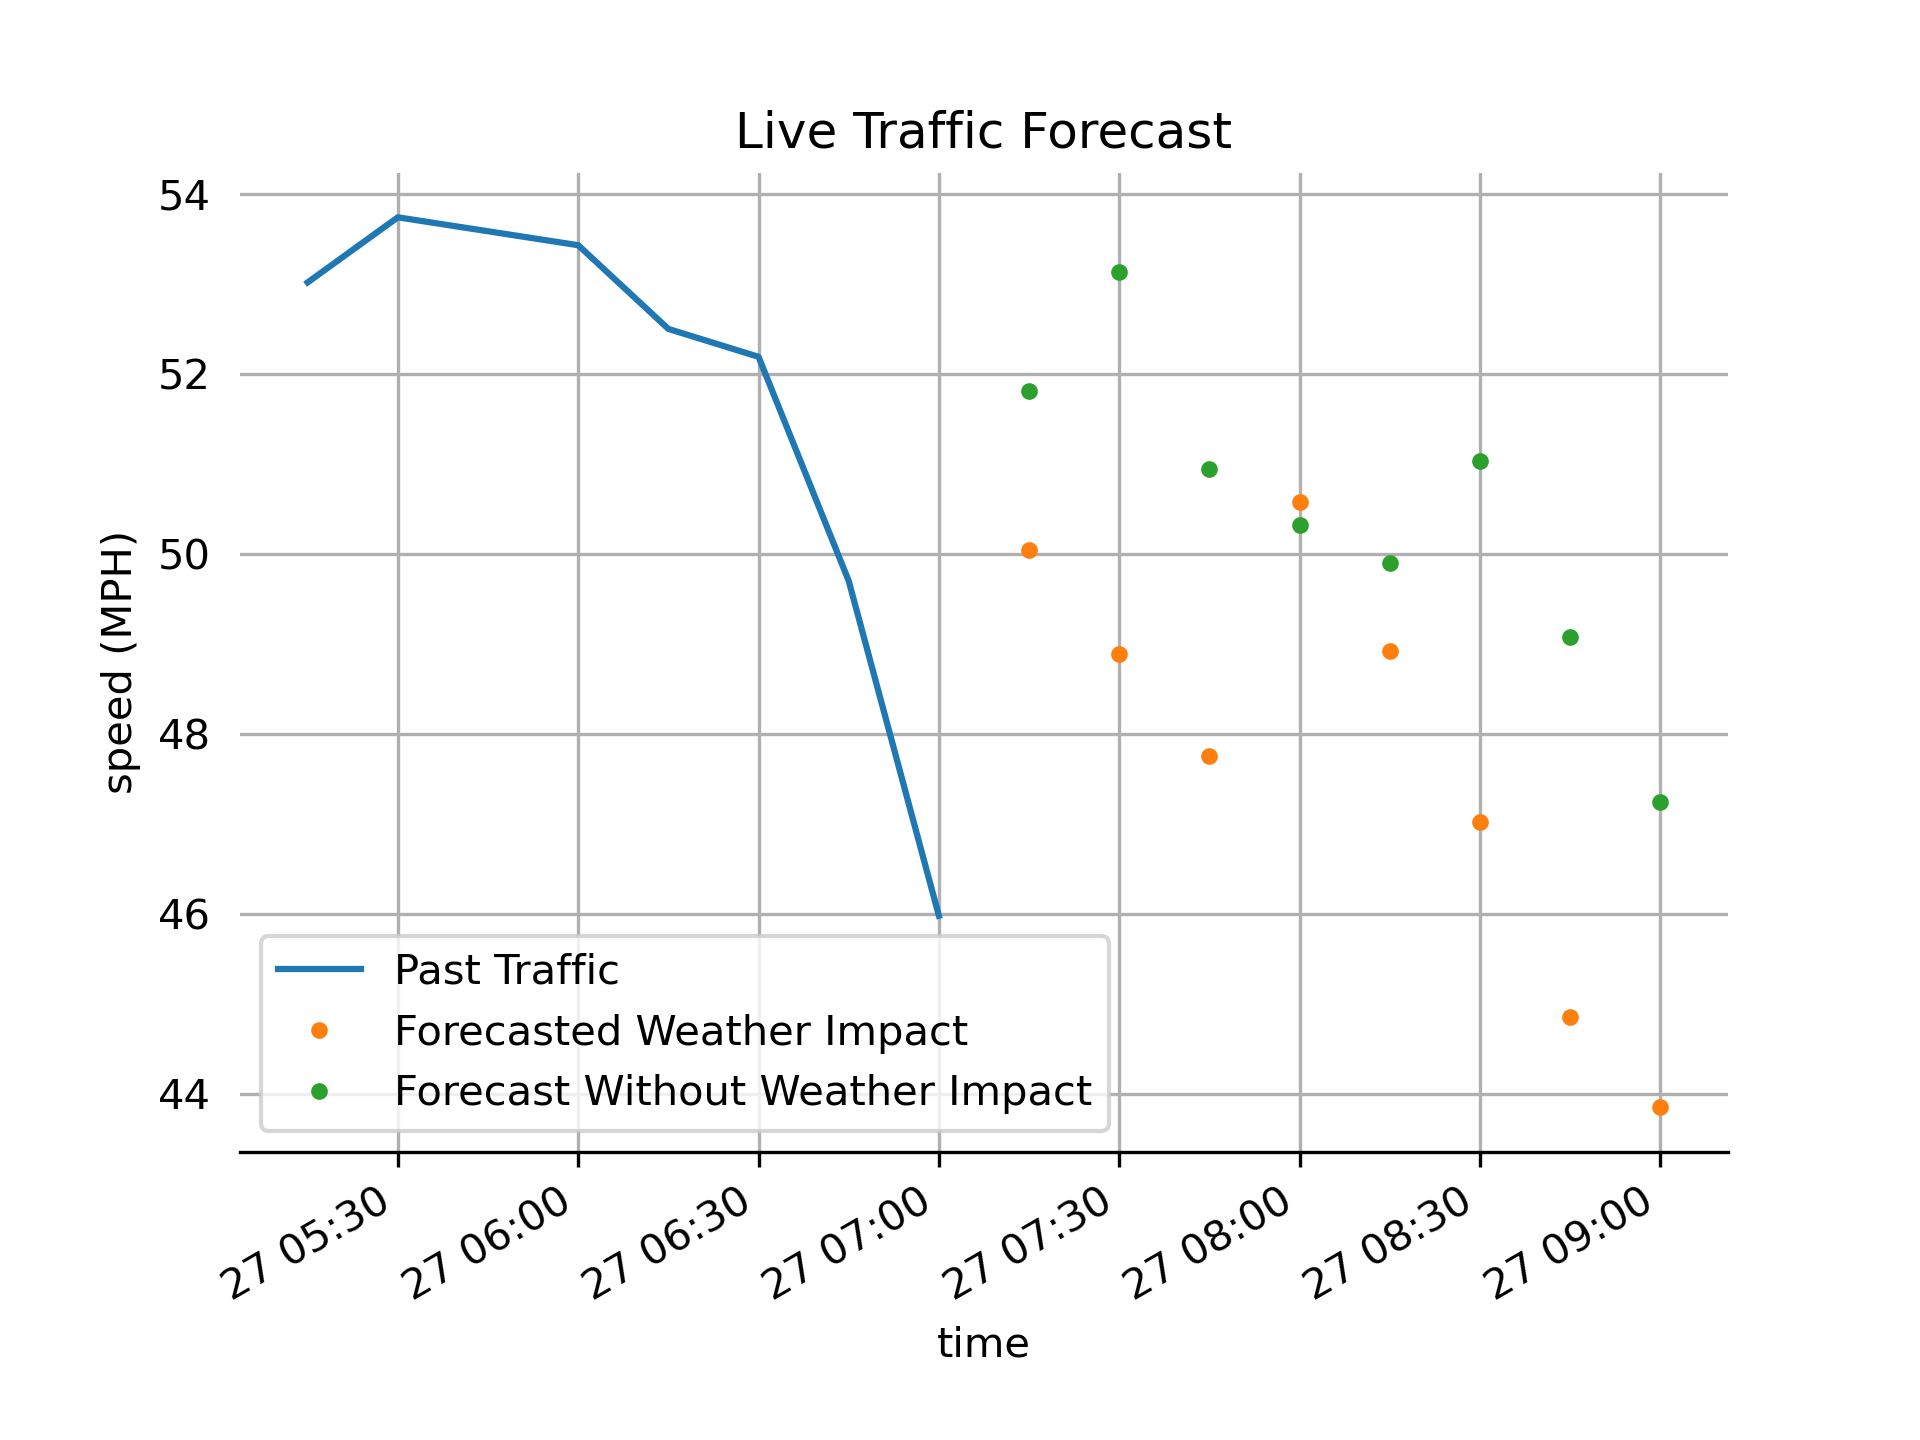
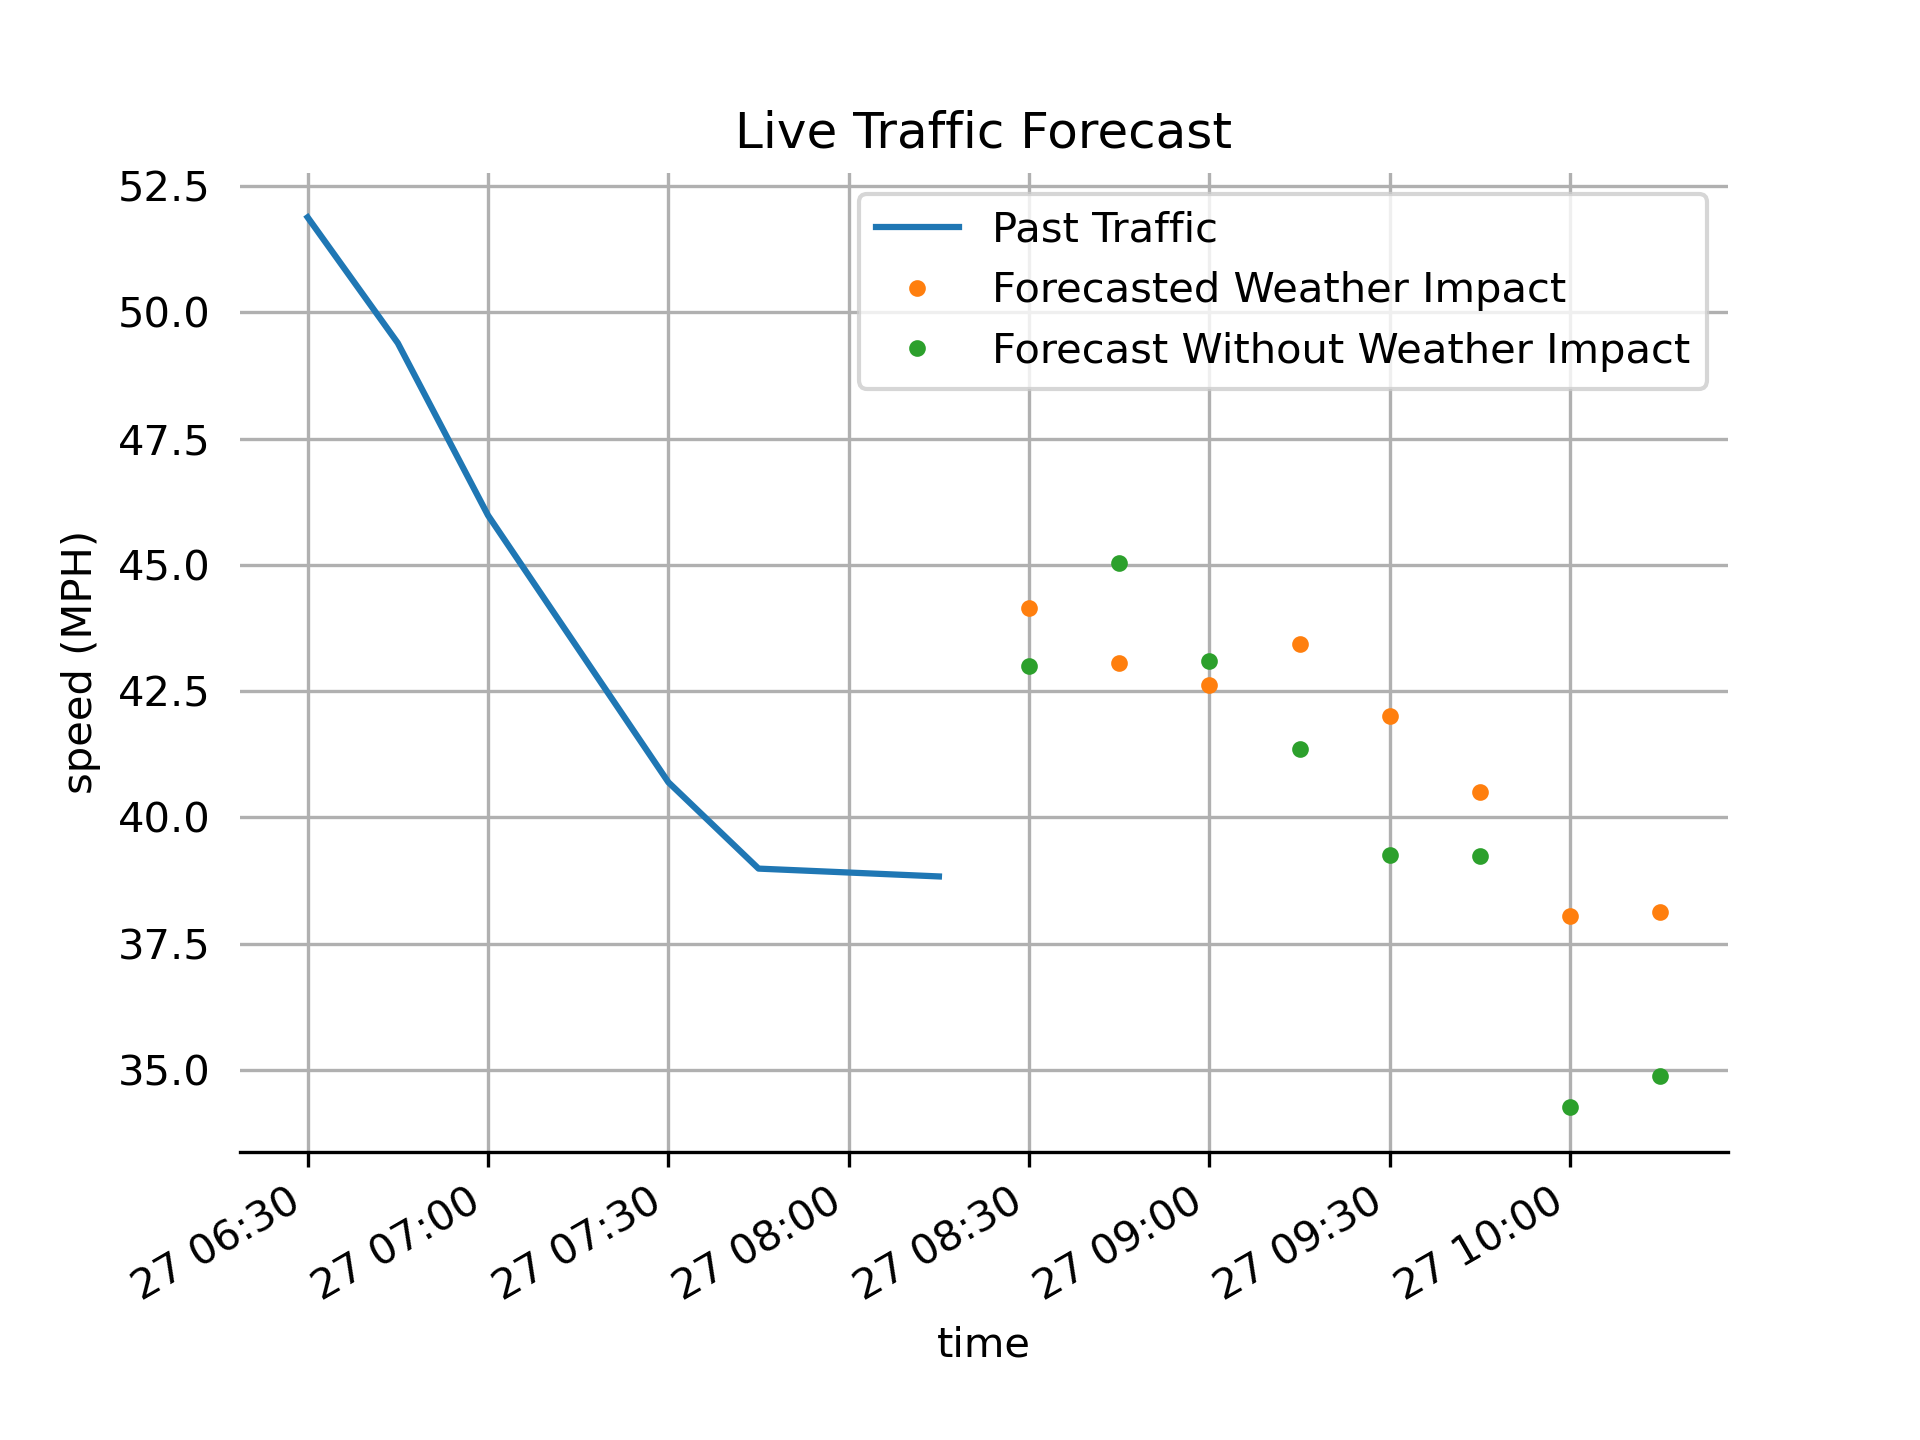
update forecast image

diff --git a/clean/clean/__init__.py b/clean/clean/__init__.py
@@ -62,7 +62,7 @@ def load_speed_from_api():
     current_time_utc = datetime.datetime.utcnow()
     hour = current_time_utc.hour - 9
     minute = current_time_utc.minute
-    return pd.read_csv(f'https://data.cityofnewyork.us/resource/i4gi-tjb9.csv?$query=SELECT%20LINK_ID,SPEED,DATA_AS_OF%20WHERE%20DATA_AS_OF%20%3E%20%272020-01-22T03:59:00.000%27%20%20LIMIT%2010000')
+    return pd.read_csv(f'https://data.cityofnewyork.us/resource/i4gi-tjb9.csv?$query=SELECT%20LINK_ID,SPEED,DATA_AS_OF%20WHERE%20DATA_AS_OF%20%3E%20%272020-01-22T{hour:02}:{minute:02}:00.000%27%20%20LIMIT%2010000')
 
 def subset_speed_data(df,boro_sel,link_id_path='./forecast/linkIds.csv'):
     """takes a subset of the NYC traffic speed sensor network, by 

diff --git a/clock.py b/clock.py
@@ -9,10 +9,5 @@ def timed_job():
     print('forecast starting')
     forecast.run_forecast_system()
     print('forecast finished')
-    
-
-@sched.scheduled_job('cron', day_of_week='mon-fri', hour=17)
-def scheduled_job():
-    print('This job is run every weekday at 5pm.')
 
 sched.start()
